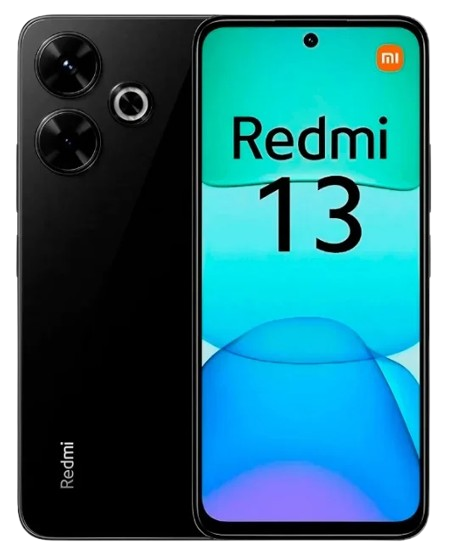
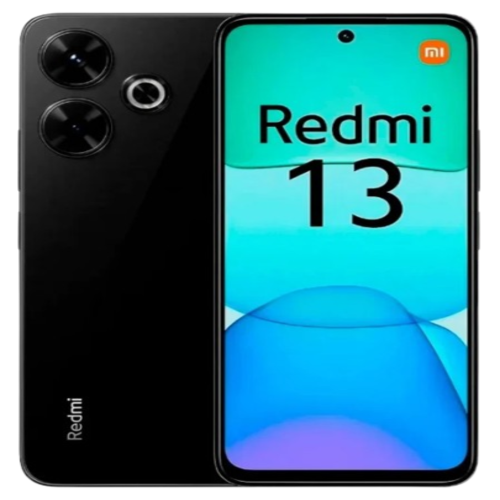
ajustado tamanho imagens catalogo para 500x500

diff --git a/src/pages/Home.jsx b/src/pages/Home.jsx
@@ -21,11 +21,11 @@ function Home() {
       <HeroCarousel />
 
       {/* Seção HERO */}
-      <section id="home" className="bg-dark text-light py-16 px-6 text-center flex flex-col items-center justify-center w-screen h-screen overflow-x-hidden">
+      <section id="home" className="bg-white text-shadow-black py-16 px-6 text-center flex flex-col items-center justify-center w-screen h-screen overflow-x-hidden">
         <h1 className="text-4xl md:text-5xl font-bold mb-4 text-primary">
           Os melhores smartphones Xiaomi estão aqui 🔥
         </h1>
-        <p className="max-w-2xl text-gray text-lg mb-8">
+        <p className="max-w-2xl text-shadow-black text-lg mb-8">
           Qualidade, desempenho e garantia de confiança. Explore nossos modelos e descubra o que há de mais novo em tecnologia.
         </p>
 

diff --git a/src/components/ProductCard.jsx b/src/components/ProductCard.jsx
@@ -1,7 +1,11 @@
 function ProductCard({ name, storage, ram, image}) {
   return (
     <div className="card">
-        <img src={image} alt={name} className="product-img" />
+        
+        
+        <img src={image} alt={name} className="w-auto h-44 mx-auto object-contain" />
+     
+     
       <h3>{name}</h3>
       <p>{storage}</p>
       <p>{ram}</p>

diff --git a/src/data/produtos.js b/src/data/produtos.js
@@ -155,7 +155,7 @@ const produtos = [
 
 
     {
-        id: "note145g ",
+        id: "note145g",
         name: "Note 14 5G",
         storage: "256GB Memória Interna",
         ram: "16GB Ram (8+8GB expansível)",
